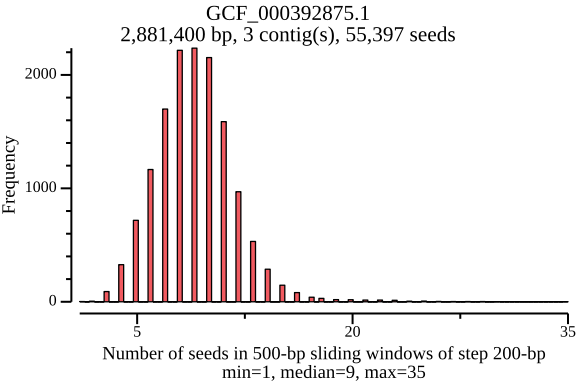
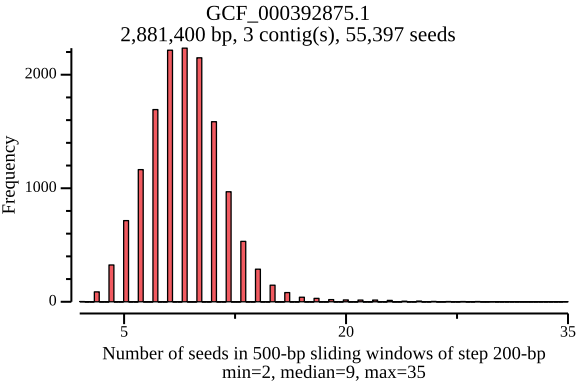
seed-pos: skip region with gaps

diff --git a/lexicmap/cmd/seed-pos.go b/lexicmap/cmd/seed-pos.go
@@ -336,6 +336,7 @@ Figures:
 			var nPos, pi, ps int
 			k32p1 := uint32(info.K) - 1
 			var first bool
+			var hasGap bool
 
 			// var kp1 int = int(info.K) - 1
 
@@ -389,30 +390,35 @@ Figures:
 					// fmt.Printf("pos: %d, ri:%d, rs:%d, rs_next:%d\n", pos, ri, rs, rs_next)
 					// fmt.Printf("  pos2str&1>0:%v, int(pos) >= rs_next:%v\n", pos2str&1 > 0, int(pos) >= rs_next)
 
-					// this is the first pos after an interval region, and it's a new seq
-					if pos2str&1 > 0 && int(pos) >= rs_next {
-						ri++
-						// fmt.Printf("    ri++%d\n", ri)
-
-						// some short contigs might do not have seeds
-						for int(pos) > rs_next+ref2locs.Genome.SeqSizes[ri] {
-							rs_next += ref2locs.Genome.SeqSizes[ri] + interval
+					// this is the first pos after an interval region
+					if pos2str&1 > 0 {
+						if int(pos) >= rs_next { // it's a new seq
 							ri++
+							// fmt.Printf("    ri++%d\n", ri)
 
-							// fmt.Printf("      ri++%d, rs_next:%d\n", ri, rs_next)
+							// some short contigs might do not have seeds
+							for int(pos) > rs_next+ref2locs.Genome.SeqSizes[ri] {
+								rs_next += ref2locs.Genome.SeqSizes[ri] + interval
+								ri++
 
-							if ri >= nSeqs {
-								ri = nSeqs - 1
-								break
+								// fmt.Printf("      ri++%d, rs_next:%d\n", ri, rs_next)
+
+								if ri >= nSeqs {
+									ri = nSeqs - 1
+									break
+								}
 							}
+							// fmt.Printf("    ri:%d, nSeqs:%d\n", ri, nSeqs)
+
+							rs = (*seqRegions)[ri][0]
+							sseqid = *ref2locs.Genome.SeqIDs[ri]
+							rs_next += ref2locs.Genome.SeqSizes[ri] + interval
+
+							pre = uint32(rs)
+						} else { // a gap
+							pre = pos
+							continue
 						}
-						// fmt.Printf("    ri:%d, nSeqs:%d\n", ri, nSeqs)
-
-						rs = (*seqRegions)[ri][0]
-						sseqid = *ref2locs.Genome.SeqIDs[ri]
-						rs_next += ref2locs.Genome.SeqSizes[ri] + interval
-
-						pre = uint32(rs)
 					}
 					dist = int(pos - pre)
 
@@ -521,12 +527,18 @@ Figures:
 
 					nSeeds = 0
 					first = true
+					hasGap = false
 					for ws = uint32(seqRegion[0]); ws <= end; ws += step { // each window
 						we = ws + window - k32p1
 						// fmt.Printf("  window: %d-%d\n", ws, we)
 
 						for pi = ps; pi < nPos; pi++ {
-							pos = (*locs)[pi] >> 2
+							pos2str = (*locs)[pi]
+							if !hasGap && pos2str&1 > 0 {
+								hasGap = true
+							}
+
+							pos = pos2str >> 2
 							// fmt.Printf("    pi:%d, pos:%d\n", pi, pos)
 
 							if first && pos >= ws+step {
@@ -539,10 +551,13 @@ Figures:
 								nSeeds++
 								// fmt.Printf("      in range. nSeeds:%d\n", nSeeds)
 							} else if nSeeds > 0 { // out of current window
-								v2 = append(v2, float64(nSeeds))
+								if !hasGap {
+									v2 = append(v2, float64(nSeeds))
+								}
 								// fmt.Printf("      out range. nSeeds:%d\n", nSeeds)
 								nSeeds = 0
 								first = true
+								hasGap = false
 								break
 							}
 						}

diff --git a/docs/content/usage/utils/seed-pos.md b/docs/content/usage/utils/seed-pos.md
@@ -220,77 +220,6 @@ Global Flags:
     Some genomes, e.g., GCF_000392875.1, might have a few big seed distances around gaps (N's).
     This also explain why there are a few sliding windows has zero seeds in the figure above.
 
-    Let's check the regions with big seed distances. Note that, in LexicMap, the N's are converted to A's.
-
-
-    ```text
-    $ lexicmap utils seed-pos -d demo.lmi/ -n GCF_000392875.1 -v --min-dist 1000 | csvtk pretty -t -W 50
-    ref               seqid           pos_gnm   pos_seq   strand   distance   len_aaa   seq
-    ---------------   -------------   -------   -------   ------   --------   -------   --------------------------------------------------
-    GCF_000392875.1   NZ_KB944589.1   503036    227274    +        1168       1117      ATATGAGCCAACAGTAGAAGGTGAAAAAGTAGAAATCGGTGGTAAAGTAA
-                                                                                        AAAAAAAAAAAAAAAAAAAAAAAAAAAAAAAAAAAAAAAAAAAAAAAAAA
-                                                                                        AAAAAAAAAAAAAAAAAAAAAAAAAAAAAAAAAAAAAAAAAAAAAAAAAA
-                                                                                        AAAAAAAAAAAAAAAAAAAAAAAAAAAAAAAAAAAAAAAAAAAAAAAAAA
-                                                                                        AAAAAAAAAAAAAAAAAAAAAAAAAAAAAAAAAAAAAAAAAAAAAAAAAA
-                                                                                        AAAAAAAAAAAAAAAAAAAAAAAAAAAAAAAAAAAAAAAAAAAAAAAAAA
-                                                                                        AAAAAAAAAAAAAAAAAAAAAAAAAAAAAAAAAAAAAAAAAAAAAAAAAA
-                                                                                        AAAAAAAAAAAAAAAAAAAAAAAAAAAAAAAAAAAAAAAAAAAAAAAAAA
-                                                                                        AAAAAAAAAAAAAAAAAAAAAAAAAAAAAAAAAAAAAAAAAAAAAAAAAA
-                                                                                        AAAAAAAAAAAAAAAAAAAAAAAAAAAAAAAAAAAAAAAAAAAAAAAAAA
-                                                                                        AAAAAAAAAAAAAAAAAAAAAAAAAAAAAAAAAAAAAAAAAAAAAAAAAA
-                                                                                        AAAAAAAAAAAAAAAAAAAAAAAAAAAAAAAAAAAAAAAAAAAAAAAAAA
-                                                                                        AAAAAAAAAAAAAAAAAAAAAAAAAAAAAAAAAAAAAAAAAAAAAAAAAA
-                                                                                        AAAAAAAAAAAAAAAAAAAAAAAAAAAAAAAAAAAAAAAAAAAAAAAAAA
-                                                                                        AAAAAAAAAAAAAAAAAAAAAAAAAAAAAAAAAAAAAAAAAAAAAAAAAA
-                                                                                        AAAAAAAAAAAAAAAAAAAAAAAAAAAAAAAAAAAAAAAAAAAAAAAAAA
-                                                                                        AAAAAAAAAAAAAAAAAAAAAAAAAAAAAAAAAAAAAAAAAAAAAAAAAA
-                                                                                        AAAAAAAAAAAAAAAAAAAAAAAAAAAAAAAAAAAAAAAAAAAAAAAAAA
-                                                                                        AAAAAAAAAAAAAAAAAAAAAAAAAAAAAAAAAAAAAAAAAAAAAAAAAA
-                                                                                        AAAAAAAAAAAAAAAAAAAAAAAAAAAAAAAAAAAAAAAAAAAAAAAAAA
-                                                                                        AAAAAAAAAAAAAAAAAAAAAAAAAAAAAAAAAAAAAAAAAAAAAAAAAA
-                                                                                        AAAAAAAAAAAAAAAAAAAAAAAAAAAAAAAAAAAAAAAAAAAAAAAAAA
-                                                                                        AAAAAAAAAAAAAAAAAAAAAAAAAAAAAAAAAAAAAAAAAAAAAAAAAA
-                                                                                        AAAAAGGTGTCATTGAAG
-    GCF_000392875.1   NZ_KB944590.1   2639985   1680797   +        1190       1144      TTCCCCACTATTTTTCAATGTTAATTGCTTCACTGCCGAAAAAAAAAAAA
-                                                                                        AAAAAAAAAAAAAAAAAAAAAAAAAAAAAAAAAAAAAAAAAAAAAAAAAA
-                                                                                        AAAAAAAAAAAAAAAAAAAAAAAAAAAAAAAAAAAAAAAAAAAAAAAAAA
-                                                                                        AAAAAAAAAAAAAAAAAAAAAAAAAAAAAAAAAAAAAAAAAAAAAAAAAA
-                                                                                        AAAAAAAAAAAAAAAAAAAAAAAAAAAAAAAAAAAAAAAAAAAAAAAAAA
-                                                                                        AAAAAAAAAAAAAAAAAAAAAAAAAAAAAAAAAAAAAAAAAAAAAAAAAA
-                                                                                        AAAAAAAAAAAAAAAAAAAAAAAAAAAAAAAAAAAAAAAAAAAAAAAAAA
-                                                                                        AAAAAAAAAAAAAAAAAAAAAAAAAAAAAAAAAAAAAAAAAAAAAAAAAA
-                                                                                        AAAAAAAAAAAAAAAAAAAAAAAAAAAAAAAAAAAAAAAAAAAAAAAAAA
-                                                                                        AAAAAAAAAAAAAAAAAAAAAAAAAAAAAAAAAAAAAAAAAAAAAAAAAA
-                                                                                        AAAAAAAAAAAAAAAAAAAAAAAAAAAAAAAAAAAAAAAAAAAAAAAAAA
-                                                                                        AAAAAAAAAAAAAAAAAAAAAAAAAAAAAAAAAAAAAAAAAAAAAAAAAA
-                                                                                        AAAAAAAAAAAAAAAAAAAAAAAAAAAAAAAAAAAAAAAAAAAAAAAAAA
-                                                                                        AAAAAAAAAAAAAAAAAAAAAAAAAAAAAAAAAAAAAAAAAAAAAAAAAA
-                                                                                        AAAAAAAAAAAAAAAAAAAAAAAAAAAAAAAAAAAAAAAAAAAAAAAAAA
-                                                                                        AAAAAAAAAAAAAAAAAAAAAAAAAAAAAAAAAAAAAAAAAAAAAAAAAA
-                                                                                        AAAAAAAAAAAAAAAAAAAAAAAAAAAAAAAAAAAAAAAAAAAAAAAAAA
-                                                                                        AAAAAAAAAAAAAAAAAAAAAAAAAAAAAAAAAAAAAAAAAAAAAAAAAA
-                                                                                        AAAAAAAAAAAAAAAAAAAAAAAAAAAAAAAAAAAAAAAAAAAAAAAAAA
-                                                                                        AAAAAAAAAAAAAAAAAAAAAAAAAAAAAAAAAAAAAAAAAAAAAAAAAA
-                                                                                        AAAAAAAAAAAAAAAAAAAAAAAAAAAAAAAAAAAAAAAAAAAAAAAAAA
-                                                                                        AAAAAAAAAAAAAAAAAAAAAAAAAAAAAAAAAAAAAAAAAAAAAAAAAA
-                                                                                        AAAAAAAAAAAAAAAAAAAAAAAAAAAAAAAAAAAAAAAAAAAAAAAAAA
-                                                                                        AAAAAAAAAAAAAAAAAAAAAAAAAAAAAAAGCTTGTTTC
-    ```
-
-    Long gap regions (>=1000 bp) of the genome, which are excatly the regions in the table above.
-
-    ```
-    $ zcat refs/GCF_000392875.1.fa.gz \
-        | seqkit locate -G -r -p '"N{20,}"' -P -M \
-        | csvtk filter2 -t -f '$end - $start + 1 >=1000' \
-        | csvtk pretty -t
-
-    seqID           patternName   pattern   strand   start     end
-    -------------   -----------   -------   ------   -------   -------
-    NZ_KB944589.1   N{20,}        N{20,}    +        226154    227258
-    NZ_KB944590.1   N{20,}        N{20,}    +        1679646   1680787
-    ```
-
 The output (TSV format) is formatted with [csvtk pretty](https://github.com/shenwei356/csvtk).
 [SeqKit](https://github.com/shenwei356/seqkit) is used to locating subsequences from fasta files.
 [lexicmap utils subseq](https://bioinf.shenwei.me/LexicMap/usage/utils/subseq/) can also be used to extract subsequences from the index.

diff --git a/docs/content/faqs/_index.md b/docs/content/faqs/_index.md
@@ -2,8 +2,11 @@
 title: FAQs
 weight: 60
 ---
+## Table of contents
 
-### Does LexicMap support short reads?
+{{< toc format=html >}}
+
+## Does LexicMap support short reads?
 
 LexicMap is mainly designed for sequence alignment with a small number of queries (gene/plasmid/virus/phage sequences) longer than 200 bp by default.
 However, short queries can also be aligned.
@@ -17,7 +20,7 @@ speed, decrease the indexing memory occupation and decrease the index size. Whil
 alignment speed is almost not affected.
 
 
-### Does LexicMap support fungi genomes?
+## Does LexicMap support fungi genomes?
 
 Yes. LexicMap mainly supports small genomes including prokaryotic, viral, and plasmid genomes.
 **Fungi can also be supported, just remember to increase the value of `-g/--max-genome` when running `lexicmap index`,
@@ -37,13 +40,13 @@ as we concatenate contigs with 1000-bp intervals of N’s to reduce the sequence
 For big and complex genomes, like the human genome (chr1 is ~248 Mb) which has many repetitive sequences, LexicMap would be slow to align.
 
 
-### How's the hardware requirement?
+## How's the hardware requirement?
 
 - For index building. See details [hardware requirement](https://bioinf.shenwei.me/LexicMap/tutorials/index/#hardware-requirements).
 - For seaching. See details [hardware requirement](https://bioinf.shenwei.me/LexicMap/tutorials/search/#hardware-requirements).
 
 
-### Can I extract the matched sequences?
+## Can I extract the matched sequences?
 
 Yes, `lexicmap search` has a flag
 
@@ -72,14 +75,14 @@ So you can use these information from the search result and expand the region po
 
 
 
-### Why isn't the pident 100% when aligning with a sequence from the reference genomes?
+## Why isn't the pident 100% when aligning with a sequence from the reference genomes?
 
 It happens if there are some degenerate bases (e.g., `N`) in the query sequence.
 In the indexing step, all degenerate bases are converted to their lexicographic first bases. E.g., `N` is converted to `A`.
 While for the query sequences, we don't convert them.
 
 
-### Why is LexicMap slow for batch searching?
+## Why is LexicMap slow for batch searching?
 
 - LexicMap is mainly designed for sequence alignment with a small number of queries against a database with a huge number (up to 16 million) of genomes.
 
